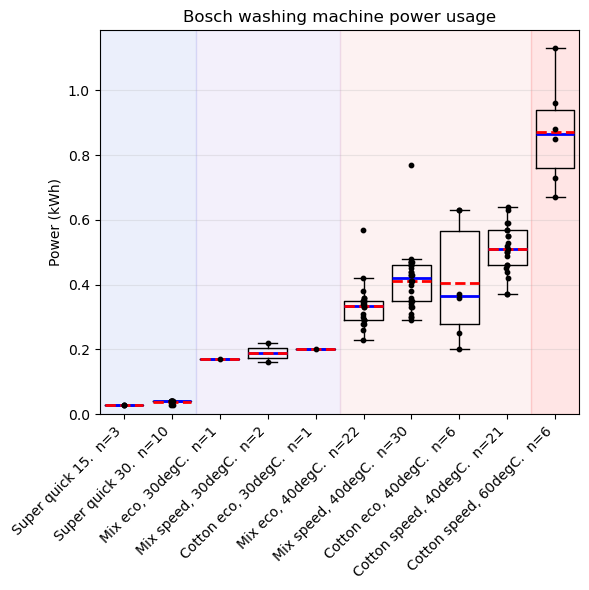
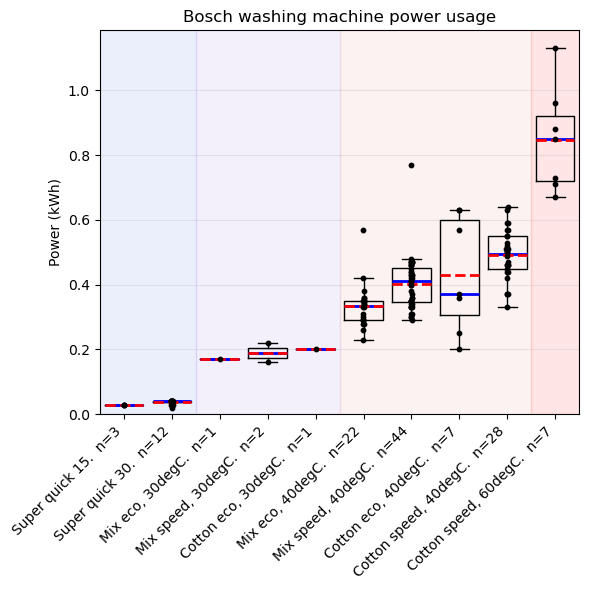
more data

diff --git a/README.md b/README.md
@@ -16,11 +16,11 @@
 - Power usage clearly depends on temperature.  A useful rule of thumb is power usage is $0.02\times(T - 20)$ kWh.  Viz, very small for cold washes, 0.2kWh for 30degC, 0.4kWh for 40degC, and 0.8kWh for 60degC.  Probably, the cold-water temperature is about 20degC here in Australia.  Heating water is the dominant energy requirement.
 - Within one cycle type and temperature, there is substantial variation.  Anecdotally, I suspect the variation depends on type and amount of clothes to be washed.  In practice, it's difficult to check this because I don't wear exactly the same clothes all the time!
 - Mix speed at 40degC has a statistically higher power usage than Mix eco at 40degC.
-  - Mix speed: mean = 0.411 kWh, SD = 0.091, n = 30
+  - Mix speed: mean = 0.403 kWh, SD = 0.081, n = 44
   - Mix eco:   mean = 0.335 kWh, SD = 0.068, n = 22
-  - Difference in means (speed - eco) = 0.077 kWh
-  - 95% CI for difference = [0.032, 0.121] kWh
-  - Welch t-test: t = 3.475, df = 50.0, p = 0.001066
+  - Difference in means (speed - eco) = 0.069 kWh
+  - 95% CI for difference = [0.031, 0.107] kWh
+  - Welch t-test: t = 3.628, df = 49.3, p = 0.0006773
 - Another example of "speed" vs "eco", washing the same set of towels under nominally identical conditions costs 0.53 kWh on "speed" and only 0.36 kWh on "eco".
 
 
